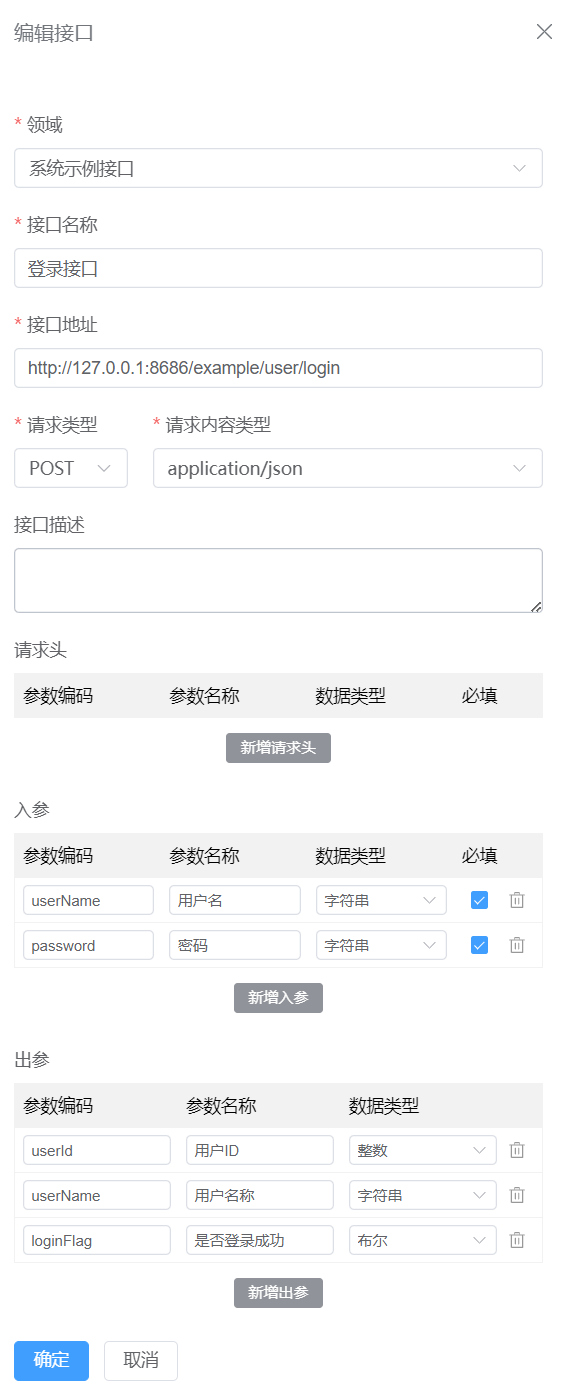
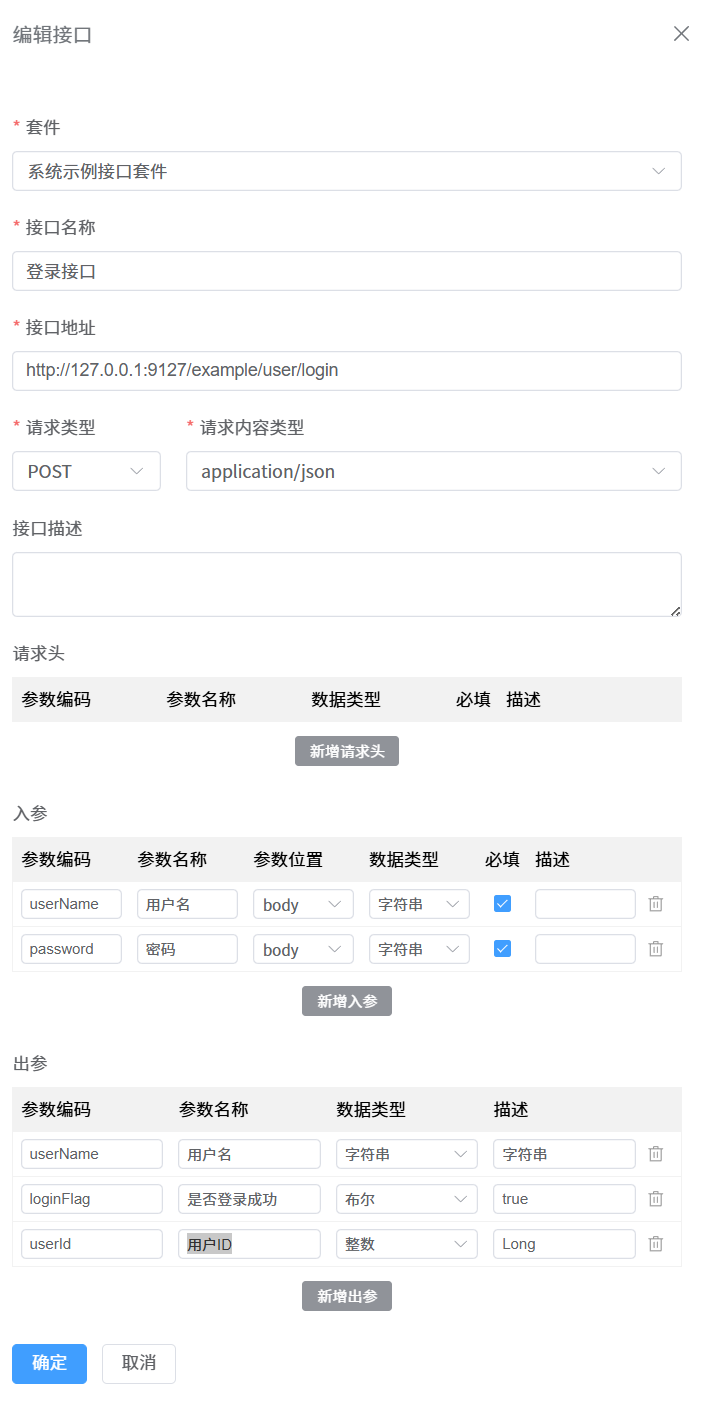
fix:完善接口新建文档

diff --git a/docs/docs/notes/guide/user/api.md b/docs/docs/notes/guide/user/api.md
@@ -15,7 +15,7 @@ permalink: /docs/guide/user/api/
 
 ### 创建接口
 
-1.在"**接口**" > "**接口列表**" 页面，点击“**新建**”按钮
+1.在"**套件**" > "**套件列表**" 页面，点击“**接口列表**”菜单，进入“**接口列表**”页面
 
 2.在右侧弹出的抽屉中，完成**套件**，**接口名称**，**接口地址**，**请求类型**，**请求内容类型**，**接口描述**（非必填），**接口入参**（非必填），**接口出参**（非必填）
 
